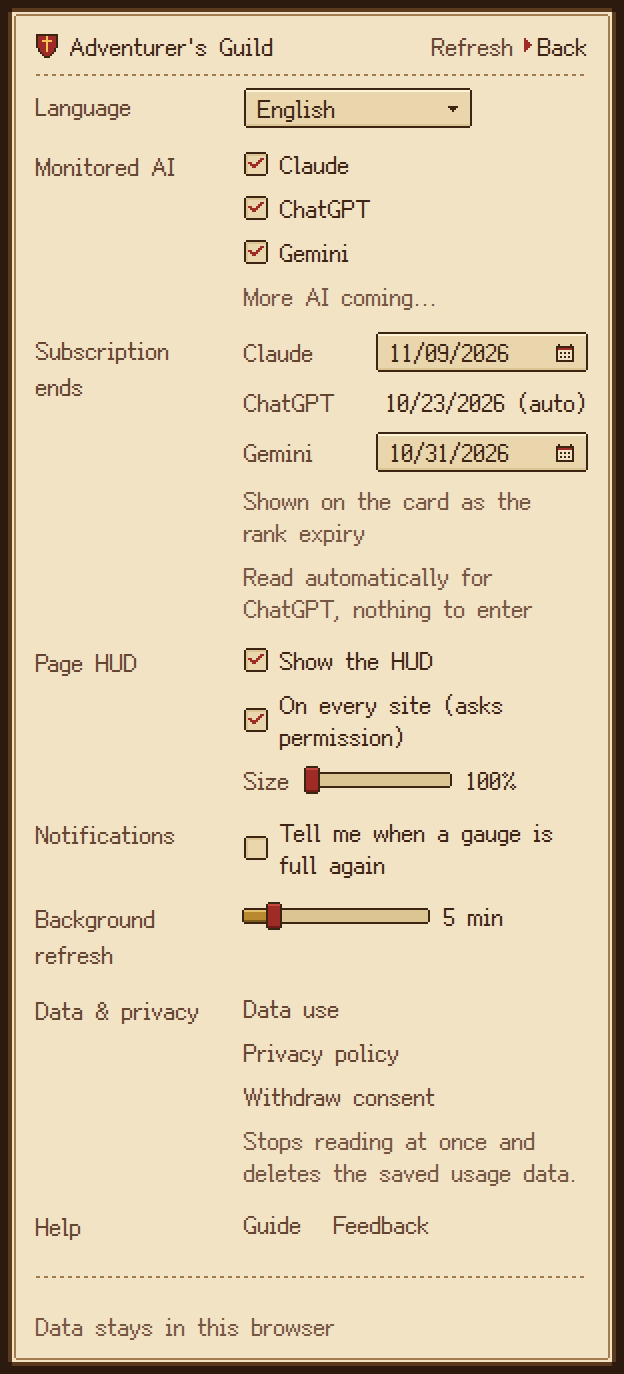
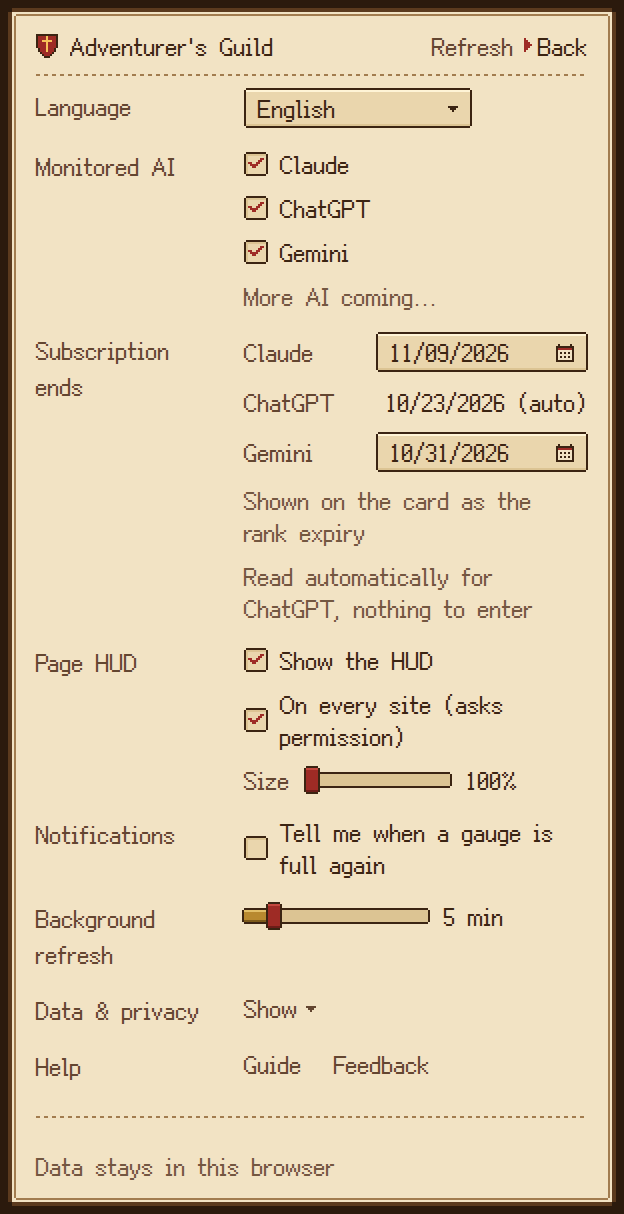
Settings: fold Data & privacy away until asked for
Data & privacy (the data use notice, the privacy policy, withdrawing
consent and its warning) took five lines of settings that are rarely
needed after the first day. It is now folded under one "Show" command
with the dropdown's pixel arrow and aria-expanded; "Hide" folds it again,
and settings open folded each time. Folding the withdraw question away
unanswered counts as "no".

The Japanese label is now "プライバシー": "データとプライバシー" did not fit
its column and broke mid-word, next to the menu cursor.

The e2e checks that the section starts folded and that settings fit the
card with it unfolded in every language. Version 0.8.1 (0.8.0 was never
published); README, store guide and screenshots updated.

Claude-Session: https://claude.ai/code/session_01TFnLwZH9ayDfRYS7Y7nd9t

diff --git a/extension/popup/popup.js b/extension/popup/popup.js
@@ -35,6 +35,8 @@ const state = {
   perms: { allSites: false, notify: false, vendors: {} },
   /** The permission Chrome last did not grant: 'allSites', 'notify' or 'vendor:<id>'. */
   denied: null,
+  /** Data & privacy unfolded in settings; folded each time settings open. */
+  dataOpen: false,
 };
 
 /**
@@ -91,8 +93,8 @@ const settingsCmd = h(doc, 'button', {
   type: 'button',
   onclick: () => {
     state.view = state.view === 'settings' ? 'status' : 'settings';
-    // Leaving settings unanswered is a "no".
-    if (state.view !== 'settings') closeWithdrawAsk();
+    // Leaving settings unanswered is a "no"; they open folded again.
+    if (state.view !== 'settings') foldData();
     render();
   },
 });
@@ -309,6 +311,27 @@ function closeWithdrawAsk() {
   dataCmds.withdraw.hidden = false;
   withdrawHint.hidden = false;
 }
+
+/**
+ * Data & privacy is rarely needed after the first day, so its commands stay
+ * folded under one "Show" until asked for.
+ */
+const dataBox = h(doc, 'div', { class: 'set-col', id: 'wam-data' }, [dataCmds.details, dataCmds.policy, dataCmds.withdraw, withdrawHint]);
+const dataFold = h(doc, 'button', {
+  class: 'cmd fold',
+  type: 'button',
+  'aria-controls': dataBox.id,
+  onclick: () => {
+    if (state.dataOpen) foldData();
+    else state.dataOpen = true;
+    renderSettings();
+  },
+});
+/** Fold Data & privacy away; a withdraw question still open there is a "no". */
+function foldData() {
+  state.dataOpen = false;
+  closeWithdrawAsk();
+}
 const row = (label, controls) => h(doc, 'div', { class: 'set-row' }, [label, h(doc, 'div', { class: 'set-col' }, controls)]);
 
 settingsView.append(
@@ -318,7 +341,7 @@ settingsView.append(
   row(labels.hud, [hudShow.wrap, hudEverywhere.wrap, hudEverywhereHint, h(doc, 'div', { class: 'set-inline' }, [labels.size, sizeSlider.wrap])]),
   row(labels.notify, [notifyRecovered.wrap, notifyHint]),
   row(labels.poll, pollSlider.wrap),
-  row(labels.data, [dataCmds.details, dataCmds.policy, dataCmds.withdraw, withdrawHint]),
+  row(labels.data, [dataFold, dataBox]),
   row(labels.help, h(doc, 'div', { class: 'set-cmds' }, [helpCmds.guide, helpCmds.feedback])),
   h(doc, 'div', { class: 'rule' }),
   privacyNote,
@@ -335,6 +358,9 @@ function renderSettings() {
   labels.poll.textContent = t('settings.poll');
   labels.data.textContent = t('settings.data');
   labels.help.textContent = t('settings.help');
+  dataFold.textContent = t(state.dataOpen ? 'settings.fold' : 'settings.unfold');
+  dataFold.setAttribute('aria-expanded', String(state.dataOpen));
+  dataBox.hidden = !state.dataOpen;
   dataCmds.details.textContent = t('consent.details');
   dataCmds.policy.textContent = t('consent.policy');
   dataCmds.withdraw.textContent = t('consent.withdraw');

diff --git a/extension/core/messages.js b/extension/core/messages.js
@@ -130,6 +130,8 @@ export const MESSAGES = Object.freeze({
     'consent.short.local': '数据只存在本机，不发给任何第三方',
     'consent.short.optional': '可选功能开启时再单独授权',
     'settings.data': '数据与隐私',
+    'settings.unfold': '展开',
+    'settings.fold': '收起',
     'settings.help': '帮助',
     'help.title': '使用说明',
     'help.report': '反馈问题',
@@ -272,7 +274,9 @@ export const MESSAGES = Object.freeze({
     'consent.short.never': '読み取り専用：会話やページの内容は読まず、制限も変更しません',
     'consent.short.local': 'データはこのブラウザ内だけに保存し、第三者には送りません',
     'consent.short.optional': 'オプション機能はオンにするときに個別に許可を求めます',
-    'settings.data': 'データとプライバシー',
+    'settings.data': 'プライバシー',
+    'settings.unfold': '開く',
+    'settings.fold': '閉じる',
     'settings.help': 'ヘルプ',
     'help.title': '使い方',
     'help.report': 'フィードバック',
@@ -416,6 +420,8 @@ export const MESSAGES = Object.freeze({
     'consent.short.local': 'Data stays in this browser and goes to no one else',
     'consent.short.optional': 'Optional features ask for permission when you turn them on',
     'settings.data': 'Data & privacy',
+    'settings.unfold': 'Show',
+    'settings.fold': 'Hide',
     'settings.help': 'Help',
     'help.title': 'Guide',
     'help.report': 'Feedback',

diff --git a/extension/popup/popup.css b/extension/popup/popup.css
@@ -362,6 +362,32 @@ body {
   gap: 6px 16px;
 }
 
+/* A folded section's command: the dropdown's pixel arrow after it, pointing
+   down while folded and up while open. */
+.set-col > .cmd.fold {
+  padding-right: 10px;
+}
+
+.set-col > .cmd.fold::after {
+  content: '';
+  position: absolute;
+  right: 5px;
+  top: 7px;
+  width: 1px;
+  height: 1px;
+  background: currentColor;
+  box-shadow:
+    1px 0, 2px 0, 3px 0, 4px 0,
+    1px 1px, 2px 1px, 3px 1px,
+    2px 2px;
+}
+
+/* Flipped about its first row, so moved down to stay on the same rows. */
+.set-col > .cmd.fold[aria-expanded='true']::after {
+  top: 9px;
+  transform: scaleY(-1);
+}
+
 /* ------------------------------------------- data use notice (popup) */
 
 .consent-view .consent {

diff --git a/README.en.md b/README.en.md
@@ -89,7 +89,7 @@ An entry the account does not have is left out; when neither exists, the whole p
 
 ## Features
 
-- **Consent first**: at install it opens a "Guild registration" data use notice that says what it reads, what it never does and where data stays. Until you click "Agree and start", the extension sends no request and shows no HUD; the popup shows only a short notice and the agree button. "Data & privacy" in settings shows the notice again, opens the [privacy policy](PRIVACY.md), or withdraws consent (it asks "Withdraw consent?" first, with "Cancel" selected and Esc meaning cancel; once confirmed, reading stops and the saved usage data is deleted).
+- **Consent first**: at install it opens a "Guild registration" data use notice that says what it reads, what it never does and where data stays. Until you click "Agree and start", the extension sends no request and shows no HUD; the popup shows only a short notice and the agree button. "Data & privacy" in settings is folded by default; "Show" unfolds it to show the notice again, open the [privacy policy](PRIVACY.md), or withdraw consent (it asks "Withdraw consent?" first, with "Cancel" selected and Esc meaning cancel; once confirmed, reading stops and the saved usage data is deleted).
 - **Popup**: the guild card (adventurer rank and its expiry), gauges with countdowns, the treasure pouch, "Updated Ns ago", and the settings page. When more than one vendor is monitored, vendor tabs (Claude / ChatGPT / Gemini) appear at the top. The vendor you pick is saved in settings, and the page HUD and the toolbar icon switch with it.
 - **Settings**: every control is drawn in pixels like a Japanese RPG menu. The dropdown and the date field are small bevelled plates that open into framed sub-windows with a drop shadow; checkboxes are sunken slots with a vermilion tick; sliders are gold gauges. Whatever the pointer or the keyboard is on gets a vermilion frame and the blinking triangle cursor (no dotted browser outline). All text is at least 4.5:1 against its background. Everything works from the keyboard: arrow keys and Enter in the dropdown; in the calendar, arrow keys move the day, PageUp / PageDown change the month, Delete clears, Esc closes.
 - **Page HUD**: by default it only appears on the sites of the vendors you monitor (claude.ai, plus chatgpt.com and gemini.google.com once they are on). It shows one vendor at a time: whichever vendor is picked in the popup, the HUD in every tab switches at once to that vendor's own panel (MP / HP / SP for Claude, only MP / HP for ChatGPT and Gemini, and the same for the collapsed tab). Ticking "On every site (asks permission)" in settings is the only time the extension asks Chrome for access to all sites; once allowed, the HUD appears in the tabs already open, and unticking it gives the permission back. Its size is a slider in settings (100% - 200%; the pixels are sharpest at 100% and 200%). Drag it anywhere and it snaps to the nearest corner when released; collapse it into a 30x22 tab; it hides in full screen. It lives in a closed shadow DOM, so page styles do not touch it, and the pixel font works even on sites with a strict CSP.
@@ -255,7 +255,7 @@ npm run store:assets     # renders the store screenshots, promo tiles and store 
 
 `npm run preview` needs `npm install` and `npx playwright install chromium` first. It loads two copies of the extension in turn, the one as shipped (no optional permissions) and one with the optional permissions granted, and checks that:
 
-- a fresh install opens the data use notice; before agreeing, no request is sent (not even after a reply finishes), nothing is stored, no HUD shows and the popup shows only the short notice; agreeing fetches at once and shows the HUD (just one HUD in a tab that was already open); withdrawing asks first (the focus is on "Cancel", and Esc deletes nothing), and once confirmed deletes the usage data and hides the HUD; agreeing again restores both, and a page script left behind by an older version is replaced without reloading the tab;
+- a fresh install opens the data use notice; before agreeing, no request is sent (not even after a reply finishes), nothing is stored, no HUD shows and the popup shows only the short notice; agreeing fetches at once and shows the HUD (just one HUD in a tab that was already open); "Data & privacy" in settings is folded and "Withdraw consent" appears only once it is unfolded; withdrawing asks first (the focus is on "Cancel", and Esc deletes nothing), and once confirmed deletes the usage data and hides the HUD; agreeing again restores both, and a page script left behind by an older version is replaced without reloading the tab;
 - a permission Chrome did not grant is said next to its switch, once, even if the popup closed while Chrome asked;
 - by default the HUD appears on claude.ai only, not on other sites, and no script is registered;
 - when the direct background request is blocked, data comes through a claude.ai tab, with both pouch entries parsed correctly;
@@ -267,7 +267,7 @@ npm run store:assets     # renders the store screenshots, promo tiles and store 
 - ChatGPT: once ticked, data comes through a chatgpt.com tab with the token, and its card only has MP / HP / EX, mana crystals and potions, with no ultimate, gold or emeralds; the paid period comes along (the page hands back only its dates), the card says "Rank renews", settings show no date field for ChatGPT, and clicking the date on the card does not jump to settings;
 - Gemini: once ticked, data comes through a gemini.google.com tab; the page hands back only the session token, the usage call's form and parameters are exactly right, and its card only has MP / HP and sapphires, with no other vendor's treasure; the HUD switches to Gemini too, and a reply finishing there fetches again;
 - picking a vendor tab in the popup switches the HUD on chatgpt.com and on ordinary pages, and the toolbar tooltip, to that vendor (the ChatGPT panel has no SP, collapsed or not), and picking Claude switches them all back;
-- the popup, its settings and the short notice before consent stay inside the card in Chinese, Japanese and English, with dates set and the calendar open;
+- the popup, its settings and the short notice before consent stay inside the card in Chinese, Japanese and English, with dates set, "Data & privacy" unfolded and the calendar open;
 - the guide opens from settings and from the data use notice (the two link to each other); in all three languages every string is translated and filled in, every vendor's gauges and treasures are listed, and at 640 and 360 pixels wide nothing leaves the card and nothing scrolls sideways;
 - the refresh interval slider (mouse wheel, arrow keys) goes from 1 to 30 minutes and the timer follows; the HUD at 200% is exactly twice the size;
 - switching Claude off shows a hint in the popup and hides the HUD, and switching it back on restores both.

diff --git a/docs/store/README.md b/docs/store/README.md
@@ -11,9 +11,9 @@
 - 商店图片要求：https://developer.chrome.com/docs/webstore/images
 - 审核流程：https://developer.chrome.com/docs/webstore/review-process
 
-> **0.8.0 更新（商店里是 0.5.0）：支持 Gemini；ChatGPT 的订阅续订 / 到期日自动读取；文字颜色和所有控件改成日式 RPG 菜单的样子；按尼尔森可用性原则改进：出错时写明原因和下一步、出错的厂商标签带「!」、撤回同意前先确认、Chrome 没给权限时会说明、新增使用说明页、同意或更新后已打开的标签页不用刷新。** 0.6.0、0.7.0、0.7.1 都没有发布，直接提交 0.8.0，不要发布更早的包。按第 9 节的步骤操作，后台要改的是：
+> **0.8.1 更新（商店里是 0.5.0）：支持 Gemini；ChatGPT 的订阅续订 / 到期日自动读取；文字颜色和所有控件改成日式 RPG 菜单的样子；按尼尔森可用性原则改进：出错时写明原因和下一步、出错的厂商标签带「!」、撤回同意前先确认、Chrome 没给权限时会说明、新增使用说明页、同意或更新后已打开的标签页不用刷新；设置里的「数据与隐私」默认收起。** 0.6.0、0.7.0、0.7.1、0.8.0 都没有发布，直接提交 0.8.1，不要发布更早的包。按第 9 节的步骤操作，后台要改的是：
 >
-> 1. Package：上传 `dist/web-ai-monitor-0.8.0.zip`（`npm run package`）。之前提交的包还在审核中时，先在三点菜单里选「Cancel review」；已通过审核、在等你手动发布时，先选「Cancel publish」退回草稿；只是上传过的草稿，直接上传新包覆盖即可。
+> 1. Package：上传 `dist/web-ai-monitor-0.8.1.zip`（`npm run package`）。之前提交的包还在审核中时，先在三点菜单里选「Cancel review」；已通过审核、在等你手动发布时，先选「Cancel publish」退回草稿；只是上传过的草稿，直接上传新包覆盖即可。
 > 2. Store listing：三种语言的详细说明（第 4 节）；截图每种语言都删掉旧的 5 张，按 1 - 5 的顺序重新上传（第 3 节）。商店图标和小宣传图不用换；大宣传图如果上传过，也换成新的。
 > 3. Privacy：Single purpose，以及 storage、scripting、Host permission 三个 justification（第 5 节）。数据使用勾选的 5 个类别不变（订阅日期归在已勾选的 Financial and payment information 里），隐私政策网址也不变。
 > 4. Test instructions：替换（第 6 节）。
@@ -294,7 +294,7 @@ https://github.com/DarkFlameSword/Web-AI-Monitor/blob/main/PRIVACY.md
 4. Optional, in Settings: tick "ChatGPT" to monitor ChatGPT (asks for chatgpt.com; needs a ChatGPT login with Codex access). Tick "Gemini" to monitor Gemini (asks for gemini.google.com; needs a Google account signed in to Gemini). Tick "On every site" to show the HUD everywhere (asks for all-sites access; it only displays the HUD).
 5. Signed out, the popup says "Not registered: sign in to claude.ai".
 
-The extension is read-only. It never changes, bypasses or resets usage limits, never sends prompts, and never reads conversation or page content. Settings > "Data & privacy" shows the notice again and lets the user withdraw consent (after confirming), which deletes the stored usage data.
+The extension is read-only. It never changes, bypasses or resets usage limits, never sends prompts, and never reads conversation or page content. Settings > "Data & privacy" > "Show" shows the notice again and lets the user withdraw consent (after confirming), which deletes the stored usage data.
 ```
 
 ## 7. 后台「分发」（Distribution）
